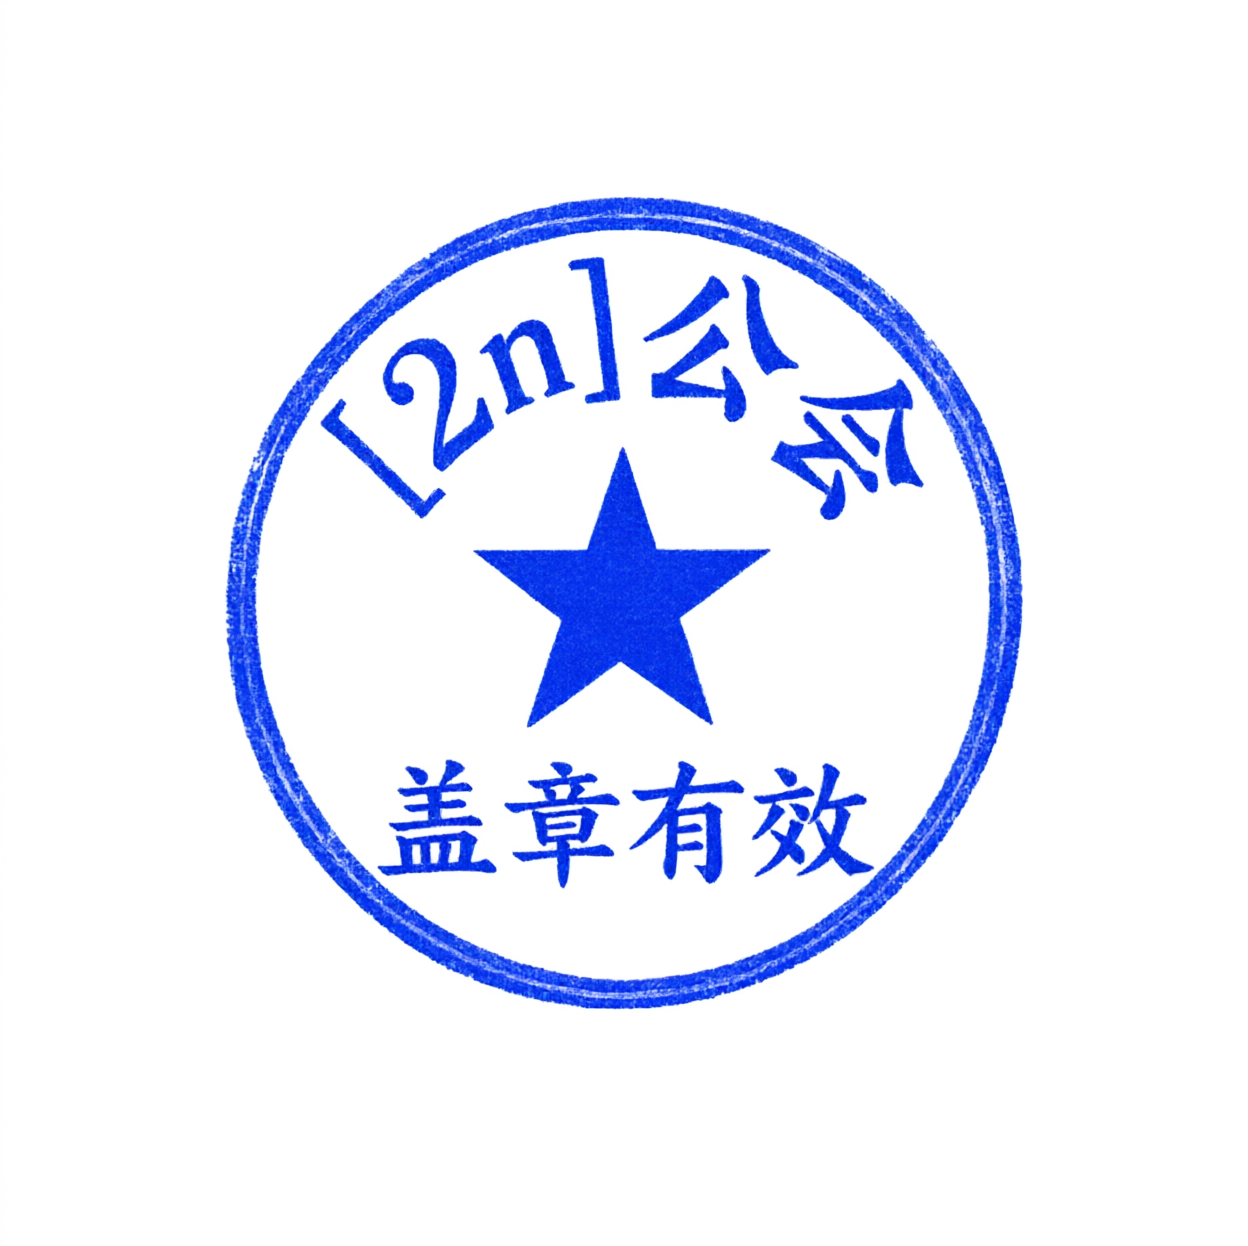
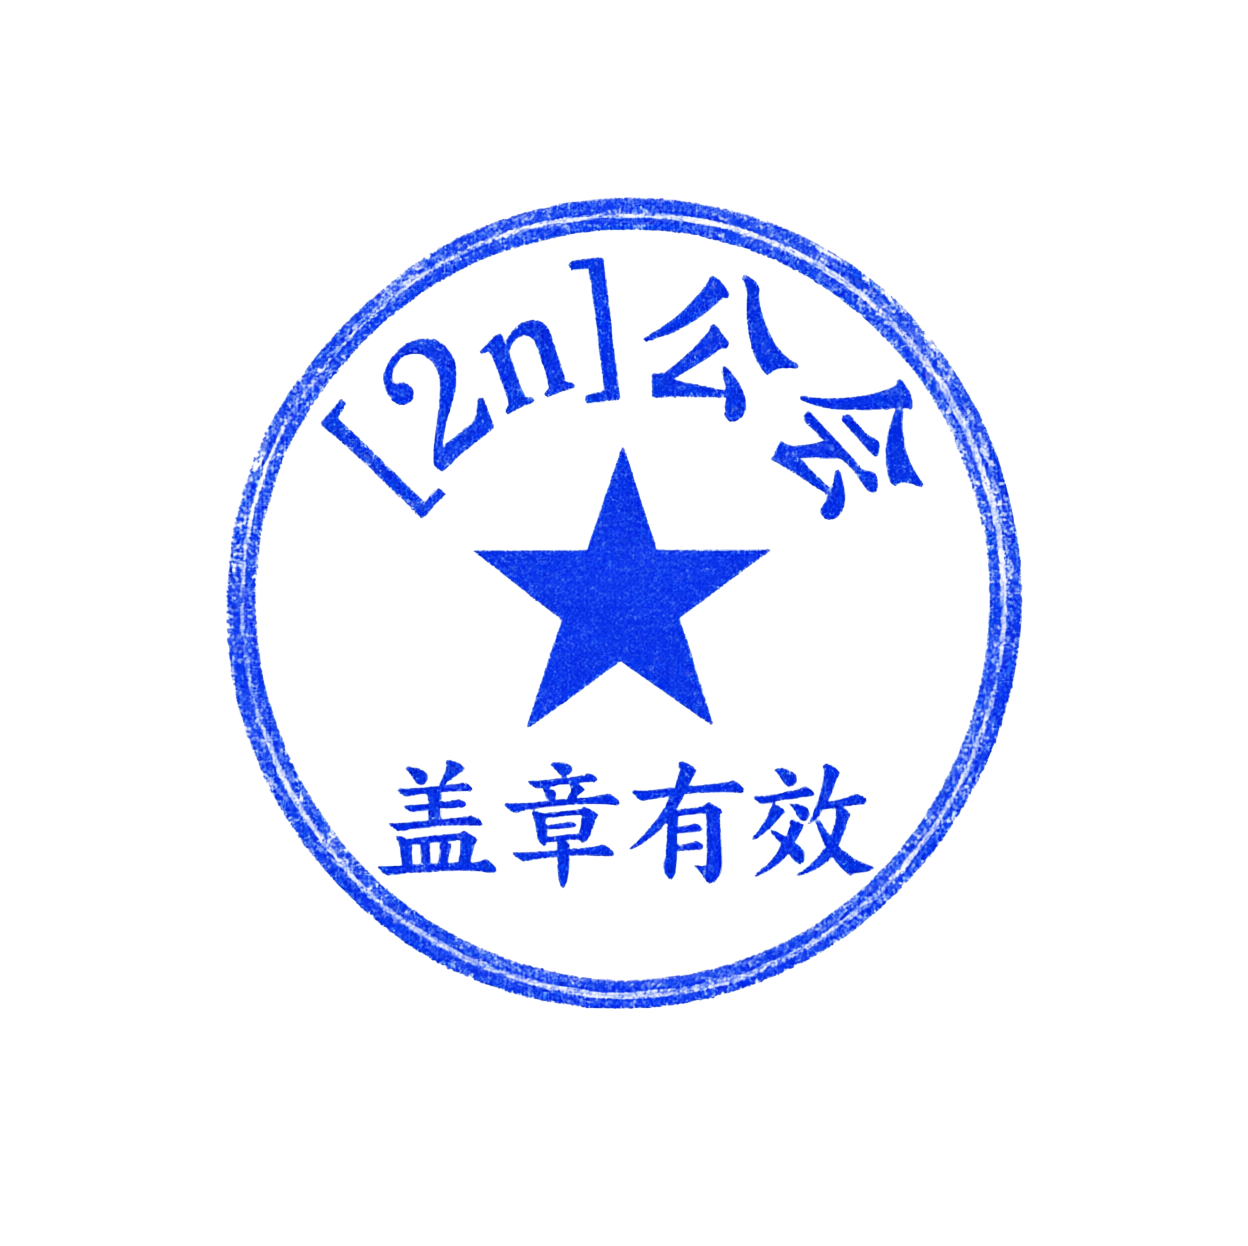
fix stamp background

diff --git a/data/announcements/stamp/white2alpha.py b/data/announcements/stamp/white2alpha.py
@@ -1,0 +1,87 @@
+#!/usr/bin/env python3
+"""
+white_to_alpha.py – 将 PNG 图片中的白色背景转为透明
+
+用法：
+    python white_to_alpha.py <文件或目录> [选项]
+
+示例：
+    # 处理整个 stamp 目录，直接覆盖原文件
+    python white_to_alpha.py data/announcements/stamp/
+
+    # 保留原文件，输出到新目录
+    python white_to_alpha.py data/announcements/stamp/ -o data/announcements/stamp/alpha/
+
+    # 调整白色阈值（默认 250，越高越严格）
+    python white_to_alpha.py data/announcements/stamp/ -t 240
+"""
+import sys
+import argparse
+from pathlib import Path
+
+try:
+    from PIL import Image
+except ImportError:
+    print("需要 Pillow：pip install Pillow", file=sys.stderr)
+    sys.exit(1)
+
+
+def process_image(src_path, dst_path, threshold):
+    img = Image.open(src_path).convert('RGBA')
+    px = img.load()
+    w, h = img.size
+    for y in range(h):
+        for x in range(w):
+            r, g, b, a = px[x, y]
+            if a == 0:
+                continue
+            mn = min(r, g, b)
+            if mn >= threshold:
+                new_a = 0
+            else:
+                new_a = int(255 * (1 - mn / threshold))
+                new_a = max(0, min(255, new_a))
+            px[x, y] = (r, g, b, new_a)
+    dst_path.parent.mkdir(parents=True, exist_ok=True)
+    img.save(dst_path, 'PNG')
+    print(f"✓ {src_path} -> {dst_path}")
+
+
+def collect_files(path):
+    p = Path(path)
+    if p.is_file():
+        return [p]
+    if p.is_dir():
+        return sorted(p.glob('*.png')) + sorted(p.glob('*.PNG'))
+    print(f"路径不存在：{path}", file=sys.stderr)
+    return []
+
+
+def main():
+    ap = argparse.ArgumentParser(description='将 PNG 白色背景转为透明')
+    ap.add_argument('path', help='文件或目录')
+    ap.add_argument('-t', '--threshold', type=int, default=250,
+                    help='白色阈值（默认 250，越高越严格）')
+    ap.add_argument('-o', '--output', default=None,
+                    help='输出目录（默认覆盖原文件）')
+    ap.add_argument('-s', '--suffix', default='',
+                    help='输出文件名后缀（如 _alpha）')
+    args = ap.parse_args()
+
+    files = collect_files(args.path)
+    if not files:
+        print("未找到 PNG 文件", file=sys.stderr)
+        sys.exit(1)
+
+    for src in files:
+        if args.output:
+            dst = Path(args.output) / src.name
+        elif args.suffix:
+            dst = src.with_name(src.stem + args.suffix + src.suffix)
+        else:
+            dst = src
+        process_image(src, dst, args.threshold)
+
+
+if __name__ == '__main__':
+    main()
